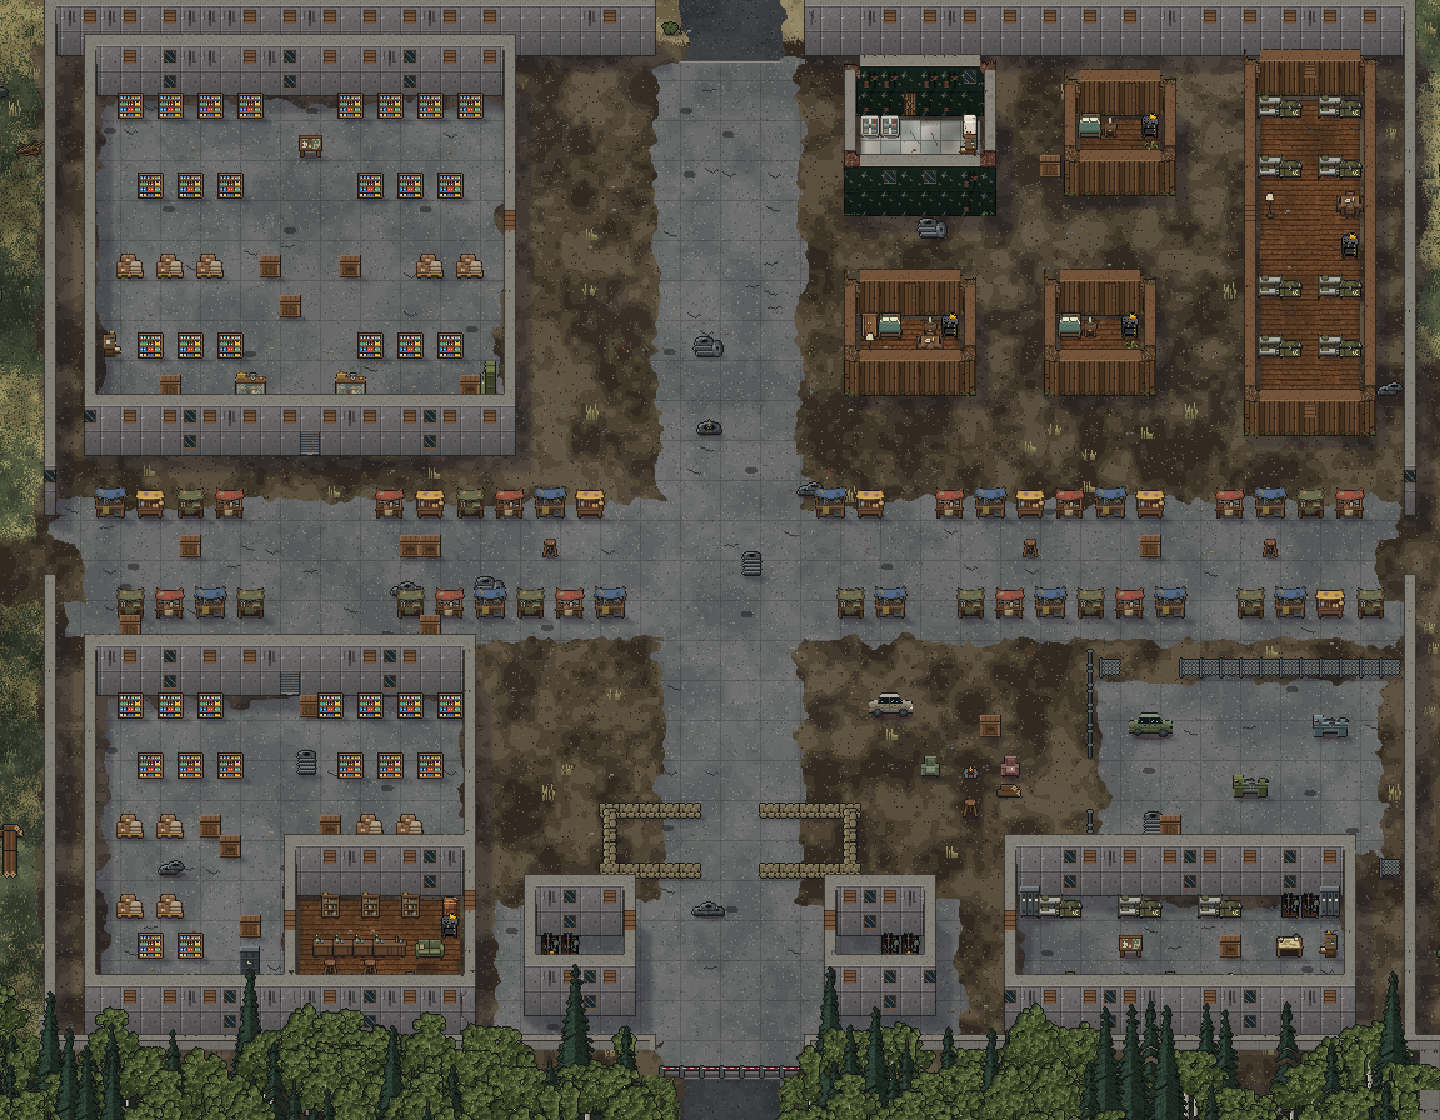
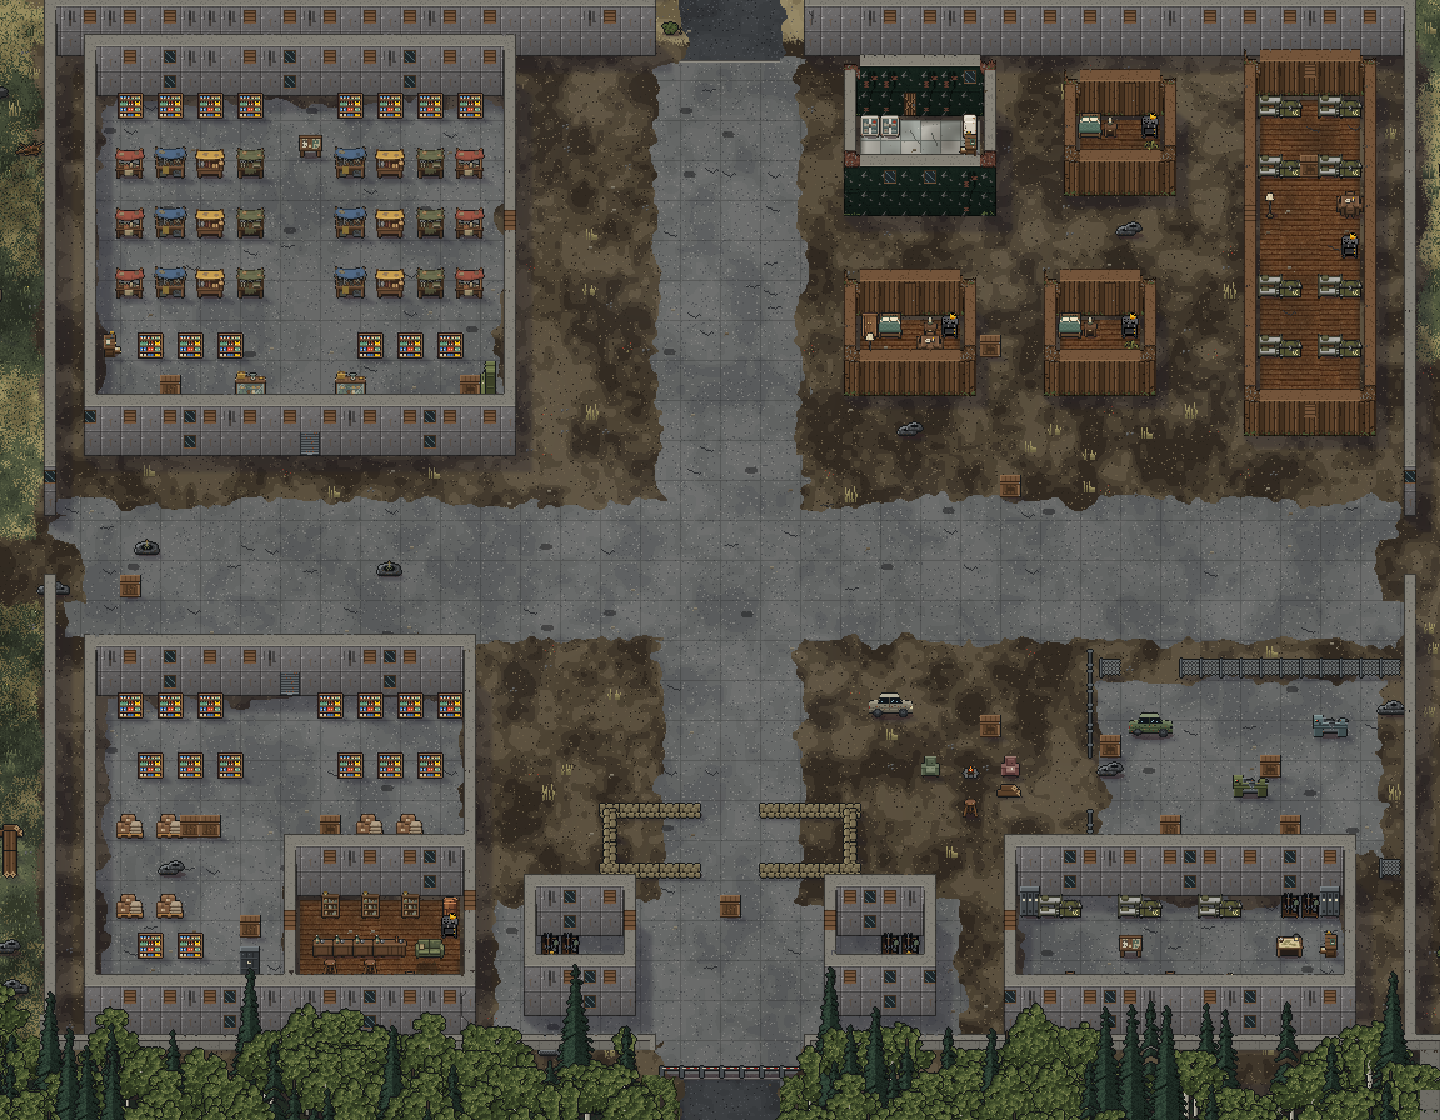
Hub: the Bazaar inside the NW warehouse, three rows of stalls
Claude-Session: https://claude.ai/code/session_01Jpd5tdDJTR7BVueAYV1KDM

diff --git a/Assets/Scripts/GameCore/TierMaps.cs b/Assets/Scripts/GameCore/TierMaps.cs
@@ -846,17 +846,14 @@ namespace GameCore
             Sandbags(c, 94, 180, 13, 4, 0, 3);
             for (int x = 97; x <= 103; x++) c.Deco(x, 193, "barrierpole");
             c.Landmark("Sentinel Checkpoint", 100, 189);
-            // The Bazaar (Yan, 2026-11-25: "an actual bazaar", rows of traders and shops): canvas stalls in two rows facing the walkway of the E-W road, the road kept clear where it crosses the N-S one
-            { string[] sk = { "stall_green", "stall_red", "stall_blue", "stall_ochre" }; int si = 0;
-              for (int sx = 69; sx <= 131; sx += 2)
-              {
-                  if (sx >= 77 && sx <= 82 || sx >= 96 && sx <= 104 || (sx - 69) % 14 == 12) continue;   // the warehouse door, the N-S road and a cross-gap every few stalls
-                  c.Put(sx, 165, HardCover, sk[(sx / 2 + si++ / 5) % 4]); c.Put(sx + 1, 170, HardCover, sk[(sx / 2 + 2 + si / 4) % 4]);
-                  if (sx % 6 == 1) c.Put(sx, 167, ScatterCover, sx % 12 == 1 ? "crate" : "stool");
-              } }
-            c.Landmark("The Bazaar", 87, 168);
             // NW: the big warehouse
             c.Clear(67, 143, 24, 21, Dirt); Interiors.Stamp(c, 68, 144, Interiors.WarehouseN, Interiors.WarehouseNFloor, "concrete", "warehouse");
+            // The Bazaar (Yan, 2026-11-25: inside the top warehouse, as many rows as fit): three rows of canvas stalls with two-tile aisles, a lane down the middle to the doors
+            { string[] sk = { "stall_green", "stall_red", "stall_blue", "stall_ochre" }; int si = 0;
+              foreach (int ry in new[] { 4, 7, 10 })
+                  foreach (int rx in new[] { 2, 4, 6, 8, 13, 15, 17, 19 })
+                      c.Put(68 + rx, 144 + ry, HardCover, sk[(rx / 2 + ry + si++ / 8) % 4]); }
+            c.Landmark("The Bazaar", 79, 153);
             // SW: the big warehouse with the Rusty Anchor in its lower-right corner (the bar's own door opens east onto the road side)
             c.Clear(67, 174, 22, 19, Dirt); Interiors.Stamp(c, 68, 174, Interiors.WarehouseBar, Interiors.WarehouseBarFloor, "concrete", "warehouse");
             c.Landmark("The Rusty Anchor", 88, 187);

diff --git a/Assets/Scripts/GameCore/Interiors.cs b/Assets/Scripts/GameCore/Interiors.cs
@@ -355,13 +355,13 @@ namespace GameCore
             "#....................#",
             "#..........N.........#",
             "#....................n",
-            "n..g.g.g......g.g.g..#",
+            "n....................#",
             "#....................#",
             "#....................#",
             "#....................#",
-            "#.X.X.X..c...c...X.X.D",
+            "#....................D",
             "#....................#",
-            "#.........c..........#",
+            "#....................#",
             "n....................#",
             "#..g.g.g......g.g.g..#",
             "#....................n",

diff --git a/ArtSource/WORK_LOG.md b/ArtSource/WORK_LOG.md
@@ -7317,3 +7317,7 @@ Yan: "the artstyle is not consistent on the furniture, some have hard black outl
 
 - Yan: "doesn't feel like a bazaar, there's no rows of traders and shops". Four market stalls drawn by Pixel Lab (create_object_pro_flash, 64x64, atlas desk as style anchor, 20 generations): `stall_green/red/blue/ochre` (patched canvas awning, goods on the table), raw files `ArtSource/world/settle_pl/raw_stall_*.png`, wired in `props_settle_pl.py` MORE, atlas repacked and copied. `TierMaps.cs`: two facing rows of ~30 stalls (y165 and y170) along the E-W road with a walkway between, gaps at the warehouse door, the N-S road and every few stalls, crates and stools in the aisle. Hard cover. The Bazaar landmark (traders' crew spot) moved into the aisle at (87,168); the warehouse shop counters stay.
 - Harness passes; render `maps/renders/buildings/hub_bazaar.png` (map renderer, not Unity). **Not run in Unity.** Not checked: trader NPC placement among stalls, walking feel through the aisle, whether stalls should be lootable/sell-points.
+
+## Batch 9ew (2026-11-25) - the Bazaar moves inside the NW warehouse
+
+- Yan marked the top warehouse and asked for the Bazaar inside it, as many rows as fit. Outside stalls removed; `WarehouseN` rows 5, 9, 11 emptied; `TierMaps.cs` puts 3 rows x 8 stalls (rows at plan y4/7/10, a 3-tile lane down the middle to both doors) with the Bazaar landmark at (79,153). Shelves along the north wall and the counters by the south door stay. Harness passes; not run in Unity; render `maps/renders/buildings/hub_bazaar.png`.
